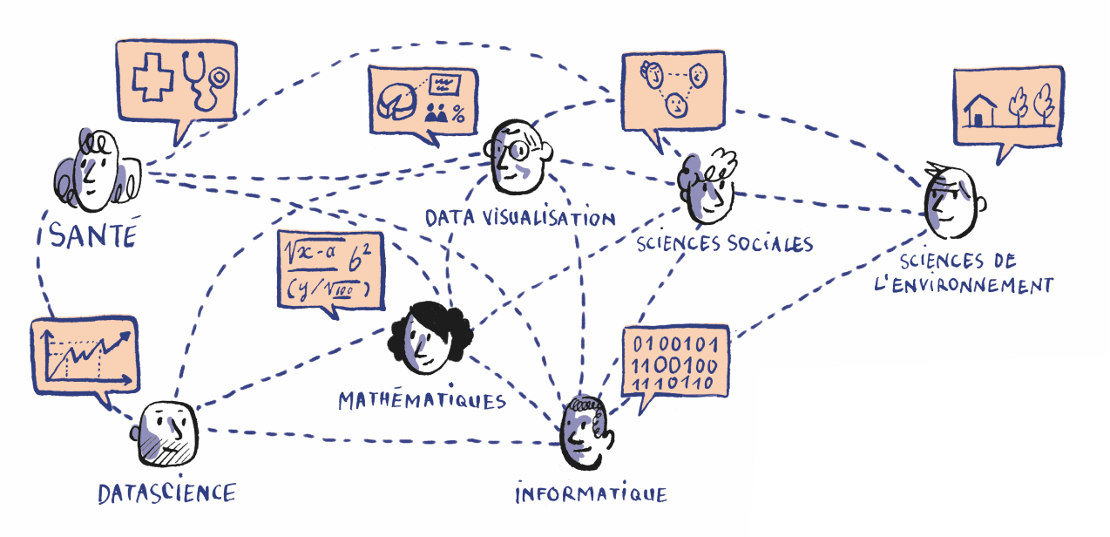
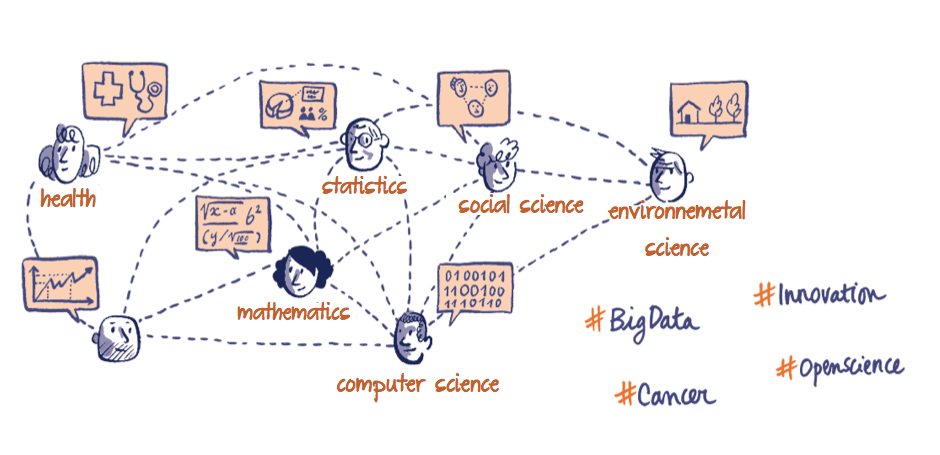
Evolutions

diff --git a/index.html b/index.html
@@ -10,31 +10,31 @@
 
 
 
-	<title>Epidemium - Challenge for cancer | Multiverse</title>
+	<title>Epidemium</title>
 	<meta name="description" content="Epidemium est un programme de recherche scientifique pour la compréhension du cancer: Big Data, open-source, collaboratif. Ouvert à tous les profils et qualifications." />
 	<meta name="robots" content="INDEX, FOLLOW">
 
 	<!-- Schema.org markup for Google+ -->
-	<meta itemprop="name" content="Epidemium - Challenge for cancer | Multiverse">
+	<meta itemprop="name" content="Epidemium">
 	<meta itemprop="description" content="Epidemium est un programme de recherche scientifique pour la compréhension du cancer: Big Data, open-source, collaboratif. Ouvert à tous les profils et qualifications.">
 	<meta itemprop="image" content="https://www.epidemium.cc/images/EPDM_visuel_Partenaires_banner.jpg">
 
 	<!-- Twitter Card data -->
 	<meta name="twitter:card" content="summary">
 	<meta name="twitter:site" content="https://www.epidemium.cc">
-	<meta name="twitter:title" content="Epidemium - Challenge for cancer | Multiverse">
+	<meta name="twitter:title" content="Epidemium">
 	<meta name="twitter:description" content="Epidemium est un programme de recherche scientifique pour la compréhension du cancer: Big Data, open-source, collaboratif. Ouvert à tous les profils et qualifications.">
-	<meta name="twitter:creator" content="Epidemium - Challenge for cancer | Multiverse">
+	<meta name="twitter:creator" content="Epidemium">
 	<!-- Twitter summary card with large image must be at least 280x150px -->
 	<meta name="twitter:image:src" content="https://www.epidemium.cc/images/EPDM_visuel_Partenaires_banner.jpg">
 
 	<!-- Open Graph data -->
-	<meta property="og:title" content="Epidemium - Challenge for cancer | Multiverse" />
+	<meta property="og:title" content="Epidemium" />
 	<meta property="og:type" content="article" />
 	<meta property="og:url" content="" />
 	<meta property="og:image" content="https://www.epidemium.cc/images/EPDM_visuel_Partenaires_banner.jpg" />
 	<meta property="og:description" content="Epidemium est un programme de recherche scientifique pour la compréhension du cancer: Big Data, open-source, collaboratif. Ouvert à tous les profils et qualifications." />
-	<meta property="og:site_name" content="Epidemium - Challenge for cancer | Multiverse" />
+	<meta property="og:site_name" content="Epidemium" />
 
 
 	<!-- BOOTSTRAP CORE STYLE CSS -->
@@ -62,9 +62,6 @@
 		ga('create', 'UA-64832042-1', 'auto');
 		ga('send', 'pageview');
 
-		ga('create', 'UA-70603842-1', 'auto', 'contact3do2');
-		ga('contact3do2.send', 'pageview');
-
 	</script>
 
 </head>
@@ -88,7 +85,7 @@
 	</div>
 	<div class="collapse navbar-collapse"  collapse="navCollapsed">
 
-		<ul class="nav navbar-nav">
+		<ul class="nav navbar-nav" style="display:none">
 			<li class="dropdown" dropdown>
 				<a href="#" ng-controller="DropdownCtrl" class="dropdown-toggle" dropdown-toggle>Last Season<span class="caret"></span></a>
 				<ul class="dropdown-menu" dropdown-menu role="menu">
@@ -126,24 +123,27 @@
 
 		<img class="img-responsive" style="padding: 10%;padding-top:15%;padding-bottom:8%;" src="images/epidemium.png" alt="Epidemium"/>
 
+	<div class="row text-center"><h3>Epidemium is an Open Science program dedicated to cancer research through a community-based data challenge</h3></div>
+
 		<div class="titre-saison2"><h1 class="margin-bottom">Join Epidemium 2017</h1></div>
+
 		<div class="row call-to-action">
 			<div class="row nous-rejoindre">
-				<a class="button item rejoins" href="/">I join the community</a>
-				<a class="button item partenaire" href="/">Become a partner</a>
+				<a class="button item rejoins" href="/">Join the community</a>
+				<a class="button item partenaire" href="https://review.epidemium.cc/" target="_blank" >Discover the last season</a>
 			</div>
 		</div>
 
 		<div class="row text-center">
 			<div class="col-sm-offset-3 col-sm-2 col-xs-offset-3 col-xs-2"><p><img class="img-responsive center-block" src="images/lapaillasse_white.png" alt="(big)data"></p></div>
-			<div class="col-sm-2 col-xs-2"><p style="padding-left:30%; padding-right:30%;"><img class="img-responsive center-block" src="images/logo.png" alt="éthique"></p></div>
+			<div class="col-sm-2 col-xs-2"><p style="padding-left:30%; padding-right:30%;"><img class="img-responsive center-block" src="images/logojadewhite.png" alt="éthique"></p></div>
 			<div class="col-sm-2 col-xs-2"><p><img class="img-responsive center-block" src="images/roche_white.png" alt="méthodologie"></p></div>
 		</div>
 
 		<div class="row">
 			<div class="col-sm-4"><small><h3>La Paillasse</h3><p>L’enjeu pour le laboratoire communautaire ouvert La Paillasse est de mutualiser et de distribuer les ressources nécessaires à la concrétisation des projets du data challenge d’Epidemium : “À l'ère de l'intelligence collective et décentralisée, il n'y a pas de monopole pour les grandes idées”, souligne Thomas Landrain, co-fondateur de la Paillasse.</p></small></div>
 
-			<div class="col-sm-4"><small><h3>Programme</h3><p>Epidemium est un programme de recherche scientifique participatif et ouvert dédié à la compréhension du cancer grâce aux Big Data et qui prend la forme d’un data challenge, Challenge4Cancer.</p></small>
+			<div class="col-sm-4"><small><h3>JADE</h3><p>JADE - Joint Action for Data and Experimentation - is a think and do tank specilized in community-based program and innovation in healthcare using data and new technologies.</p></small>
 			</div>
 
 			<div class="col-sm-4"><small><h3>Roche</h3><p>“L’étude des mégadonnées ouvertes est un champ de recherche passionnant. En tant qu’acteur de l’innovation en santé, notre ambition est de réinventer une nouvelle forme d’épidémiologie du cancer, pour en faire un véritable outil au service d’une médecine prédictive et préventive”, explique Isabelle Vitali, directrice de l’innovation et du développement des partenariats de Roche Pharma France.</p></small></div>
@@ -162,11 +162,11 @@
 					<div id="mc_embed_signup_scroll">
 
 						<div class="inputs-line">
-							<div class="little-title input">Abonnez-vous !</div>
-							<input type="text" value="" name="FNAME" class="input" id="mce-FNAME" placeholder="Prénom">
-							<input type="text" value="" name="LNAME" class="input" id="mce-LNAME" placeholder="Nom">
-							<input type="email" value="" name="EMAIL" class="required email input" id="mce-EMAIL" placeholder="Email*">
-							<input type="submit" value="S'inscrire à la newsletter" name="subscribe" id="mc-embedded-subscribe" class="button input">
+							<div class="little-title input">Stay up to date</div>
+							<input type="text" value="" name="FNAME" class="input" id="mce-FNAME" placeholder="first name">
+							<input type="text" value="" name="LNAME" class="input" id="mce-LNAME" placeholder="last name">
+							<input type="email" value="" name="EMAIL" class="required email input" id="mce-EMAIL" placeholder="email*">
+							<input type="submit" value="Send" name="subscribe" id="mc-embedded-subscribe" class="button input">
 						</div>
 
 						<div id="mce-responses" class="clear">
@@ -209,10 +209,10 @@
 	<div class="container">
 
 		<div class="row text-center">
-			<div class="col-sm-12"><h1 class="margin-bottom">Pourquoi Rejoindre la communauté Epidemium ?</h1></div>
+			<div class="col-sm-12"><h1 class="margin-bottom">Why joining the community ?</h1></div>
 		</div>
 		<div class="row text-center">
-			<div class="col-sm-offset-2 col-sm-8"><p>Epidemium, c’est avant tout une communauté de curieux, passionnés ou experts des enjeux du Big Data, de l’Open Science ou de la recherche contre le cancer. Vous aussi, faites partie du mouvement, quelque soit le temps que vous voudrez y consacrer et votre domaine de prédilection.</p></div>
+			<div class="col-sm-offset-2 col-sm-8"><p>Because anyone can support a global effort to tackle cancer issues by bringing skills, time and insight helping others and interacting with the community to develop a collective intelligence in scientific research.</p></div>
 		</div>
 		<div class="row text-center">
 			<div class="col-sm-12">
@@ -222,8 +222,8 @@
 		<div class="row margin-top">
 			<div class="col-xs-12 col-sm-8">
 				<div id="actualite" class="important">
-					<h3>Actualités</h3>
-					<p>Epidemium, c’est aussi une communauté de curieux, passionnés ou experts des enjeux du Big Data, de l’Open Science ou de la recherche contre le cancer.</p>
+					<h3>NEWS !</h3>
+					<p>The team is currently setting up the new season... stay tuned and follow us to be updated in the following weeks</p>
 				</div>
 			</div>
 			<div class="col-xs-3 col-sm-1">
@@ -246,7 +246,7 @@
 		</div>
 
 		<div class="align-center margin-top">
-			<a href="https://review.epidemium.cc/" class="button button-yellow">Voir Les Résultats Du Programme 2015-2016</a>
+			<a href="https://review.epidemium.cc/" class="button button-yellow">Discover the results of 2015-2016 program</a>
 		</div>
 	</div>
 </div>
@@ -254,7 +254,7 @@
 <div class="container-challenges ">
 	<div class="container">
 		<div class="row text-center">
-			<h1>Les Challenges</h1>
+			<h1>Challenges</h1>
 			<h2>Coming Soon !</h2>
 		</div>
 	</div>
@@ -283,25 +283,25 @@
 
 <div class="container container-comites super-container">
 	<div id="comites" class="row text-center">
-		<div class="col-sm-12"><h1>Les comités</h1></div>
+		<div class="col-sm-12"><h1>Committees</h1></div>
 	</div>
 
 	<div class="row">
 		<div class="col-xs-6 col-sm-3"><img class="img-responsive center-block" src="images/comite1.png" alt="Dessin Membre du comité Epidemium"></div>
-		<div class="col-xs-6 col-sm-3 text-right" style="border-right-style: solid; border-width: thin;"><p><h3>Le comité d’éthique</h3>
-			Composé de neuf membres, il accompagne epidemium sur l'ensemble des enjeux éthiques. </br></br>
+		<div class="col-xs-6 col-sm-3 text-right" style="border-right-style: solid; border-width: thin;"><p><h3>ethic committee</h3>
+			composed with various profils the committee accompany the program on ethical issues</br></br>
 			Gilles Babinet</br>Jérôme Béranger</br>Emmanuel Didier</br>Camille François</br>Muriel Londres</br>Dr Cécile Monteil</br>Pr Bernard Nordlinger</br>Me David Simhon</br>Cédric Villani</p></div>
-		<div class="col-xs-6 col-sm-3 text-left"><p><h3>Le comité scientifique</h3>
-			Composé de neuf membres, il accompagne Epidemium sur les points méthodologiques.</br></br>Aurélien Alvarez</br>Dr Jean-Pierre Armand</br>Djalel Benbouzid</br>Nicolas de Cordes</br>Dr Charles Ferté</br>Thomas Gauthier</br>Dr Leila Kockler</br>Thomas Landrain</br>Pr Philippe Ravaud</p></div>
+		<div class="col-xs-6 col-sm-3 text-left"><p><h3>scientific committee</h3>
+			the scientific committee accompany the program on methodological aspects</br></br>Aurélien Alvarez</br>Dr Jean-Pierre Armand</br>Djalel Benbouzid</br>Nicolas de Cordes</br>Dr Charles Ferté</br>Thomas Gauthier</br>Dr Leila Kockler</br>Thomas Landrain</br>Pr Philippe Ravaud</p></div>
 		<div class="col-xs-6 col-sm-3"><img class="img-responsive center-block" src="images/comite2.png" alt="Dessin Membre du comité Epidemium"></div>
 	</div>
 	<div class="row text-center margin-top">
-		<div class="col-sm-12"><h3><a href="http://wiki.epidemium.cc/wiki/Comit%C3%A9_d'%C3%A9thique">Découvrir les comités</a></h3></div>
+		<div class="col-sm-12"><h3><a href="http://wiki.epidemium.cc/wiki/Comit%C3%A9_d'%C3%A9thique">Discover the committees</a></h3></div>
 	</div>
 	<div class="row text-center margin-top">
 		<div class="col-xs-12  col-sm-offset-2 col-sm-8">
 			<div class="important">
-				<h3>Les valeurs</h3>
+				<h3>Values</h3>
 				<img class="img-responsive center-block" src="images/valeurs.png" alt="Les valeurs">
 			</div>
 		</div>
@@ -311,17 +311,17 @@
 <div class="container-partenaires super-container">
 	<div class="container">
 		<div id="partenaires" class="row text-center">
-			<div class="col-sm-12"><h1>Experts & Ambassadeurs</h1></div>
+			<div class="col-sm-12"><h1>Experts & Ambassadors</h1></div>
 		</div>
 		<div class="row text-center">
 			<div class="col-sm-offset-2 col-sm-8">
 				<p>
-					Epidemium, c’est aussi un réseau d’experts qui nous accompagne pour pousser l’initiative plus loin et que nous sollicitons pour aider les équipes dans la réalisation de leur projet. </br>
-					<a href="https://docs.google.com/forms/d/15x9FngwlytRhT0oQ5JjJ2-f8CJHqgVg1B9o6GzPSr_w/edit" target="_blank"> Devenez expert !</a>
+					Epidemium, is also an network of experts included into the program to support the global effort and bring scientific quility to the community work</br>
+					<a href="https://docs.google.com/forms/d/15x9FngwlytRhT0oQ5JjJ2-f8CJHqgVg1B9o6GzPSr_w/edit" target="_blank"> Become an expert !</a>
 				</p>
 				<p>
 					L'initiative d'Epidemium vous intéresse et vous souhaitez la faire connaître autour de vous ? </br>
-					<a href="https://docs.google.com/forms/d/1utt0NV3LWKHrAYbm7__eJfLBGPqq-IYjx_gApqX1I2o/edit" target="_blank">Vous pouvez devenir ambassadeur !</a>
+					<a href="https://docs.google.com/forms/d/1utt0NV3LWKHrAYbm7__eJfLBGPqq-IYjx_gApqX1I2o/edit" target="_blank">Become an ambassador !</a>
 				</p>
 			</div>
 		</div>
